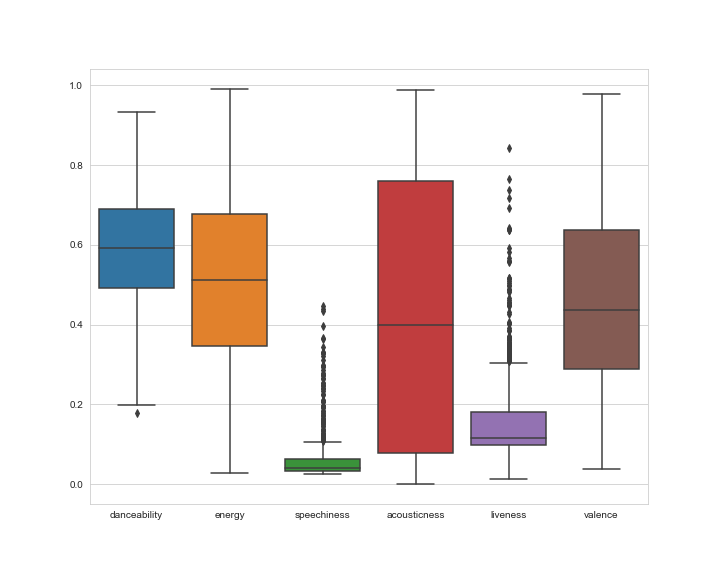
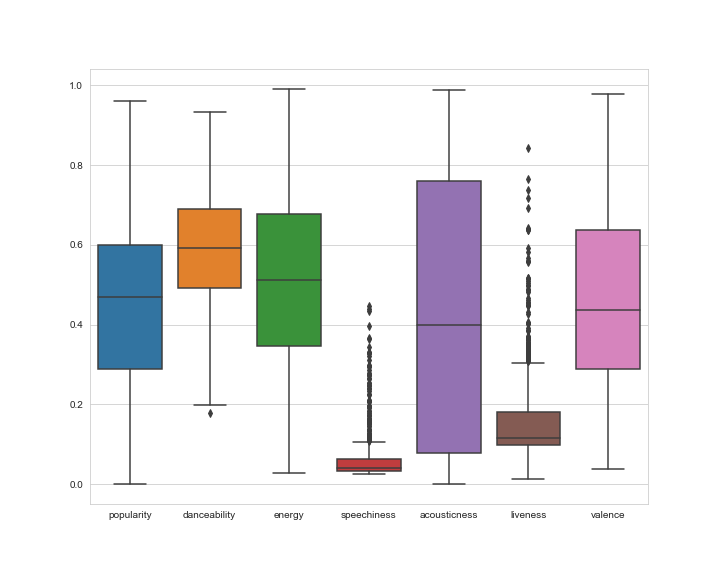
post update

diff --git a/_posts/2023-04-13-data-story.md b/_posts/2023-04-13-data-story.md
@@ -16,8 +16,10 @@ So fine, FINE, I'll give the people what they want. Let's get into my Spotify st
 
 We started this journey by scraping my saved songs on Spotify (over 700 songs) and gathering the musical qualities about each song. I wondered what my songs had in common -- why I liked these specific songs. Was there a common thread? What were the songs that fell close to the averages for each category, if any? I cleaned the data and started doing an exploratory data analysis to try and figure out any consistencies among the songs. I decided to focus on the averages of each numerical category, deciding that the songs in the middle two quartiles of each category were the ones I wanted to focus on.
 
-After separating the middle two quartiles from the rest of the data, I created boxplots to portray where each of those averages are. Displayed below, you can easily see which categories are more spread out and which ones are consistently low or high. Acousticness has the largest range, while speechiness and liveness are consistently low.
+After dividing popularity by 100 to be on the same scale as the other categories, I created boxplots to portray the averages of the following seven categories: popularity, danceability, energy, speechiness, acousticness, liveness, and valence. Displayed below, you can easily see which categories are more spread out and which ones are consistently low or high. Acousticness has the largest range, while speechiness and liveness are consistently low.
 
 <p align="center">
 <img src="https://raw.githubusercontent.com/maddiekkay/my386blog/main/assets/images/story.png"/>
 </p>
+
+I decided to create a table of the songs that fit in the middle two quartiles (the middle 50% of the data) of each of these six categories, as well as popularity. 
